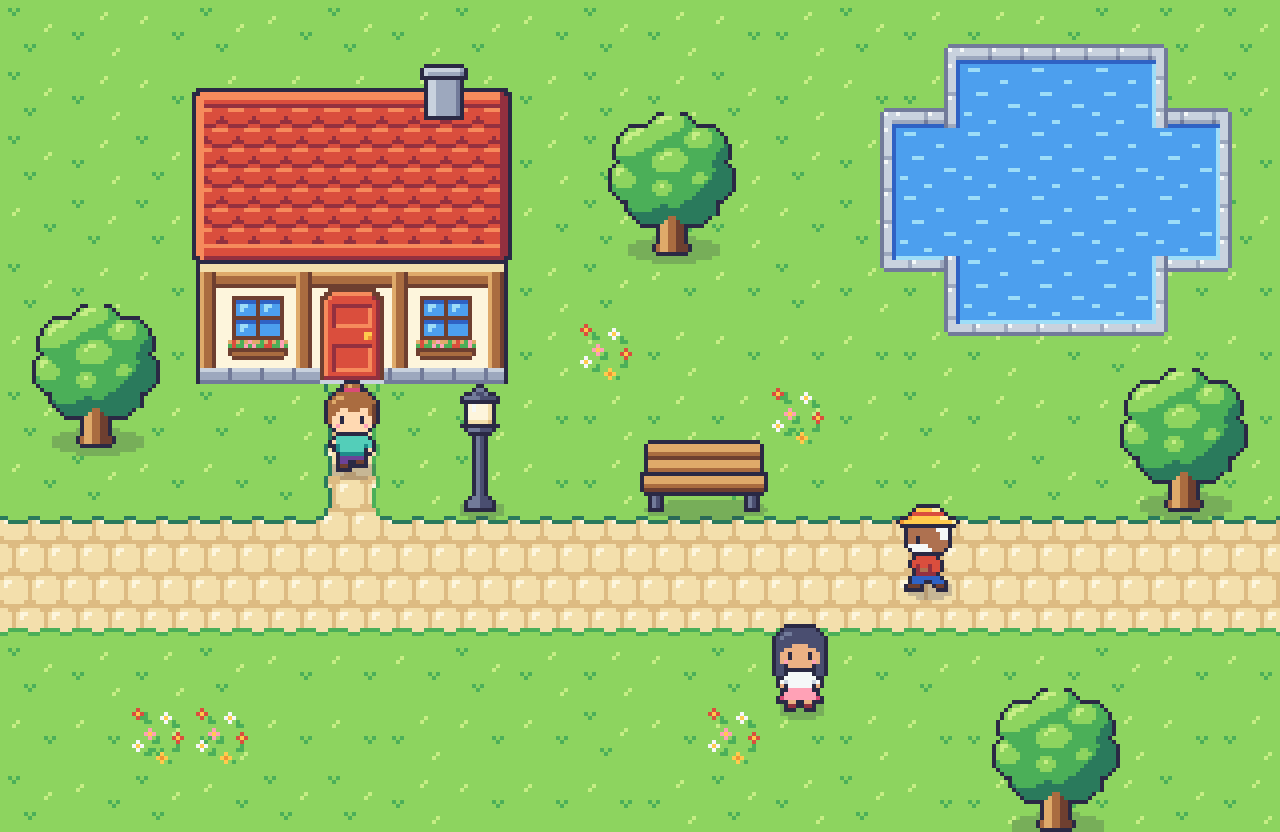
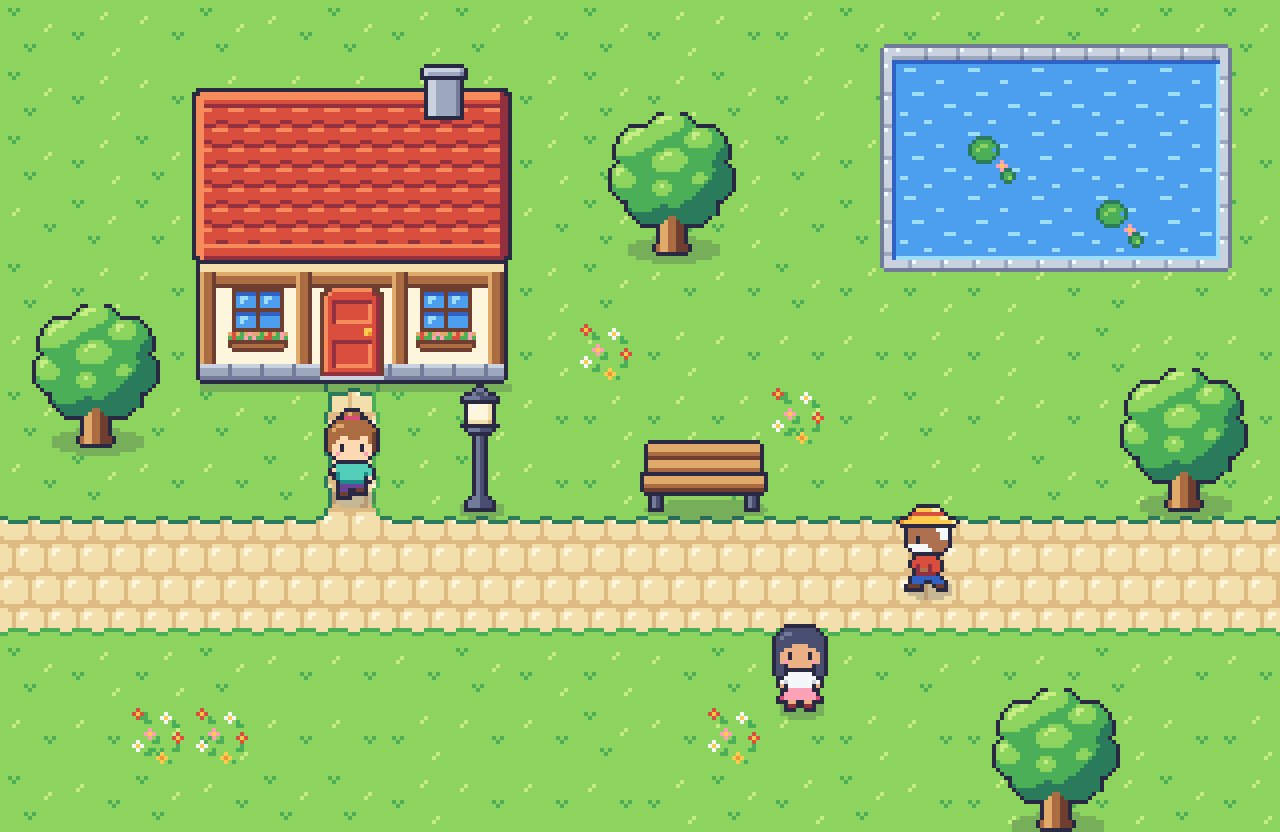
Rewrite STYLE.md for the daylight look; lily pads, house base line, calmer roof

diff --git a/src/art/buildings/index.ts b/src/art/buildings/index.ts
@@ -58,12 +58,12 @@ const done = (c: Canvas, anchor: readonly [number, number]): Sprite => ({
 const roofTiles = sprite(`
   yzzzzyyyyzzzzyyy
   yyyyyyyyyyyyyyyy
-  yyyyyyyxyyyyyyyx
+  yyyyyyyyyyyyyyyy
   xyyyyyxxxyyyyyxx
   yxxxxxyyyxxxxxyy
   zyyyyzzzzyyyyzzz
   yyyyyyyyyyyyyyyy
-  yyyxyyyyyyyxyyyy
+  yyyyyyyyyyyyyyyy
   yyxxxyyyyyxxxyyy
   xxyyyxxxxxyyyxxx
 `);
@@ -191,6 +191,7 @@ const WALL_X = 2;
 const WALL_W = W - 4;
 const DOOR_X = 32;
 const WINDOW_XS = [9, 56];
+const WINDOW_Y = WALL_TOP + 8; // level with the top of the door
 
 function buildHouse(): { day: Sprite; glow: Sprite } {
   const c = canvas(W, H);
@@ -199,18 +200,19 @@ function buildHouse(): { day: Sprite; glow: Sprite } {
   fill(c, plaster, WALL_X, WALL_TOP, WALL_W, H - WALL_TOP);
   fill(c, plasterShade, WALL_X, WALL_TOP, WALL_W, 4);
   fill(c, beam, WALL_X, WALL_TOP + 4, WALL_W, 4);
-  fill(c, plinth, WALL_X, H - 4, WALL_W, 4);
+  fill(c, plinth, WALL_X, H - 5, WALL_W, 4);
   for (const x of [WALL_X, DOOR_X - 6, DOOR_X + 18, WALL_X + WALL_W - 4]) {
-    fill(c, post, x, WALL_TOP + 4, 4, H - 4 - (WALL_TOP + 4));
+    fill(c, post, x, WALL_TOP + 4, 4, H - 5 - (WALL_TOP + 4));
   }
   for (const x of WINDOW_XS) {
-    paste(c, windowDay, x, WALL_TOP + 10);
-    paste(c, flowerBox, x, WALL_TOP + 21);
+    paste(c, windowDay, x, WINDOW_Y);
+    paste(c, flowerBox, x, WINDOW_Y + 11);
   }
-  paste(c, door, DOOR_X, H - door.h);
-  // ink outline of the wall
-  fill(c, ink, WALL_X - 1, WALL_TOP, 1, H - WALL_TOP);
-  fill(c, ink, WALL_X + WALL_W, WALL_TOP, 1, H - WALL_TOP);
+  paste(c, door, DOOR_X, H - 1 - door.h);
+  // ink outline of the wall: both sides and the base line
+  fill(c, ink, WALL_X - 1, WALL_TOP, 1, H - 1 - WALL_TOP);
+  fill(c, ink, WALL_X + WALL_W, WALL_TOP, 1, H - 1 - WALL_TOP);
+  fill(c, ink, WALL_X, H - 1, WALL_W, 1);
 
   // roof: tile courses between a ridge cap and an eave, lit on the left, shaded on the right
   fill(c, roofTiles, 0, ROOF_TOP + 5, W, ROOF_H - 10);
@@ -235,7 +237,7 @@ function buildHouse(): { day: Sprite; glow: Sprite } {
   paste(c, chimney, 57, 0);
 
   const g = canvas(W, H);
-  for (const x of WINDOW_XS) paste(g, windowLit, x, WALL_TOP + 10);
+  for (const x of WINDOW_XS) paste(g, windowLit, x, WINDOW_Y);
 
   return { day: done(c, [0, H]), glow: done(g, [0, H]) };
 }

diff --git a/tools/stylekey.ts b/tools/stylekey.ts
@@ -29,10 +29,10 @@ const col = (slot: Slot, a = 255) => [...lutRgb(lut, slot), a] as const;
 // g grass, c cobble (paving), w water
 const MAP = [
   'gggggggggggggggggggg',
-  'gggggggggggggggwwwgg',
   'ggggggggggggggwwwwwg',
   'ggggggggggggggwwwwwg',
-  'gggggggggggggggwwwgg',
+  'ggggggggggggggwwwwwg',
+  'gggggggggggggggggggg',
   'gggggggggggggggggggg',
   'gggggcgggggggggggggg',
   'gggggcgggggggggggggg',
@@ -53,6 +53,8 @@ const PROPS: { kind: string; tx: number; ty: number }[] = [
   { kind: 'tree', tx: 16, ty: 12 },
   { kind: 'lamp', tx: 7, ty: 7 },
   { kind: 'bench', tx: 10, ty: 7 },
+  { kind: 'lily', tx: 15, ty: 2 },
+  { kind: 'lily', tx: 17, ty: 3 },
   { kind: 'flowers', tx: 9, ty: 5 },
   { kind: 'flowers', tx: 12, ty: 6 },
   { kind: 'flowers', tx: 2, ty: 11 },
@@ -62,7 +64,7 @@ const PROPS: { kind: string; tx: number; ty: number }[] = [
 
 // Actors stand on a feet position in world pixels.
 const ACTORS: { id: string; x: number; y: number; dir: Dir; pose: 'idle' | 'walk'; frame: number }[] = [
-  { id: 'ana', x: 5 * TILE + 8, y: 7 * TILE + 6, dir: 'down', pose: 'walk', frame: 0 },
+  { id: 'ana', x: 5 * TILE + 8, y: 7 * TILE + 13, dir: 'down', pose: 'walk', frame: 0 },
   { id: 'tomas', x: 14 * TILE + 8, y: 9 * TILE + 4, dir: 'left', pose: 'walk', frame: 0 },
   { id: 'mira', x: 12 * TILE + 8, y: 11 * TILE + 2, dir: 'down', pose: 'idle', frame: 0 },
 ];
@@ -142,6 +144,10 @@ function scene(): Surface {
     if (s) shadow(out, p.tx * TILE + s[0], (p.ty + 1) * TILE + s[1], s[2], s[3]);
   }
   for (const a of ACTORS) shadow(out, a.x, a.y - 1, 5, 2);
+  // a building throws a thin strip along its base
+  for (const p of PROPS) {
+    if (p.kind === 'house') out.rect(p.tx * TILE + 2, (p.ty + 1) * TILE, 78, 2, col('steel.0', 56));
+  }
 
   // standing things, sorted by their base line
   const drawables: { y: number; draw: () => void }[] = [];

diff --git a/src/art/nature/index.ts b/src/art/nature/index.ts
@@ -1,7 +1,7 @@
 import { sprite } from '../../core/sprite';
 import type { PropDef } from '../../core/types';
 
-// Reference nature for the daylight look: one round tree and one flower patch.
+// Reference nature for the daylight look: one round tree, a flower patch, lily pads.
 
 // A round, bushy tree. The canopy is a ball of leaf clumps: flat moss.1, sunlit clumps in
 // moss.2 towards the upper left, a moss.0 crescent of shade along the lower right.
@@ -68,7 +68,28 @@ const flowers = sprite(`
   ................
 `, { anchor: [0, 16] });
 
+// Lily pads for the pond, one in bloom. Flat, and placed on water tiles.
+const lily = sprite(`
+  ................
+  ................
+  ....gggg........
+  ...ghhhhg.......
+  ..ghhiihhg......
+  ..ghihhh.g......
+  ..ghhhhhhg......
+  ...ghhhhg.......
+  ....gggg..*.....
+  .........*q*....
+  ..........*gg...
+  ..........ghhg..
+  ..........ghig..
+  ...........gg...
+  ................
+  ................
+`, { anchor: [0, 16] });
+
 export const natureProps: Record<string, PropDef> = {
   tree: { id: 'tree', sprite: tree, footprint: { w: 1, h: 1 } },
   flowers: { id: 'flowers', sprite: flowers, flat: true },
+  lily: { id: 'lily', sprite: lily, flat: true },
 };

diff --git a/docs/STYLE.md b/docs/STYLE.md
@@ -1,78 +1,174 @@
-# Art direction: steel and ochre dusk
+# Art direction: Willow Square in daylight
 
-Simutown is a small town at the end of the day.
-The light is going blue, the stone is cool, and the only warm things in the frame are the lamps and the lit windows.
-It should feel quiet and a little painterly, closer to a print than to a bright RPG tileset.
+Simutown is a small, friendly town at midday.
+The meadow is a light, fresh green, the paving is pale sand, the roofs are warm, and everything has a dark, confident outline.
+People are two heads tall.
+It should feel like a toy town: bright, chunky, and readable from the back of a classroom.
 
 Every artist, human or agent, draws against this page so that the town reads as one hand.
-When in doubt, render the reference sprites (`pnpm sheet all`, `pnpm still 4`) and match them.
+The style key is the reference picture; when this page and your eye disagree, match the style key.
+
+| File | What it shows |
+|------|---------------|
+| `docs/style/stylekey.png` | A sunny corner of Willow Square, at x4. Every reference sprite in context. |
+| `docs/style/characters.png` | Every frame of the reference townsfolk. Rows: down, left, right, up. Columns: 2 idle frames on paving, 4 walk frames on grass. |
+| `docs/style/palette.png` | The palette, one row per ramp in the order of the table below, dark to light. |
+
+Regenerate them with `pnpm tsx tools/stylekey.ts`.
+Review single sprites with `pnpm sheet <group>`.
+
+Willow Square is its own place.
+We take the qualities of the classic handheld RPG town - brightness, chunkiness, big heads, clarity - and none of its content.
+Never copy a character, creature, tile or sprite from an existing game, and never name one in this repository.
+The people here are ordinary townsfolk.
 
 ## The palette
 
-Art uses the 33 slots in `src/core/palette.ts` and nothing else.
-Ramps run dark to light.
+Art uses the 38 slots of the `daylight` theme in `src/core/palette.ts` and nothing else.
+Ramps run dark to light, and each one is hue-shifted: the dark end leans cool, the light end leans warm.
+The character in the second column is the slot's letter in a sprite grid (`LEGEND` in `src/core/sprite.ts`).
 
-| Ramp | Use |
-|------|-----|
-| `steel.0-5` | The backbone. Outlines (`steel.0`), stone, slate roofs, water, shadow, metal, night. |
-| `cream.0-2` | Plaster walls, paper, cloth, the lightest non-glowing surfaces. |
-| `ochre.0-3` | Light. Lamp glass, lit windows, and very small accents. |
-| `brick.0-2` | Muted warm: brick, roof tiles, clay pots, rust. |
-| `moss.0-3` | Grass, leaves, hedges. Dusty, never bright green. |
-| `wood.0-2` | Trunks, doors, beams, furniture, dark hair. |
-| `skin.a/b/c.0-1` | Three skin tones, each a shade and a base. |
-| `plum.0-1`, `teal.0-1` | Clothing and the odd painted shutter or awning. |
+| Ramp | Grid | Use |
+|------|------|-----|
+| `steel.0` | `0` | Ink. Outlines and eyes, nothing else. |
+| `steel.1-5` | `1 2 3 4 5` | Iron, slate, stone, and white. `steel.5` is the only white: glints, foam, daisies, cloth. |
+| `cream.0-2` | `a b c` | The light ground of the town. `cream.1` is paving, `cream.0` its joints, `cream.2` plaster walls and paper. |
+| `ochre.0-3` | `o p q r` | Orange to sunshine yellow: orange roofs, straw, blond and ginger hair, flower hearts. Also lamplight. |
+| `brick.0-2` | `x y z` | Warm red: tiled roofs, doors, poppies, a red shirt. |
+| `moss.0-3` | `g h i j` | Green. `moss.2` is the grass, `moss.1` is leaves and tufts, `moss.0` leaf shade, `moss.3` sunlit tips. |
+| `wood.0-2` | `u v w` | Trunks, beams, doors and window frames, benches, brown hair. |
+| `skin.a/b/c.0-1` | `k l`, `m n`, `s t` | Three skin tones, each a shade and a base. |
+| `plum.0-1`, `teal.0-1` | `d e`, `6 7` | Clothing, and the odd painted shutter or awning. |
+| `sky.0-2` | `8 9 f` | Water, window glass by day, blue roofs, denim. |
+| `rose.0-1` | `+ *` | Flowers, cheeks, ribbons, a pink skirt. |
 
-### The one warm colour
+### Colour rules
 
-Ochre is rationed.
-`ochre.2` and `ochre.3` appear only in emissive layers (things that glow) and in accents of a few pixels: a scarf, a flower, a sign.
-If a daytime sprite has a large ochre area, it is wrong.
-This rule is what makes the lamps and windows carry the picture at dusk.
+- **Two colours own the ground.** `moss.2` (grass) and `cream.1` (paving) cover most of every frame, and they are reserved for it.
+  A prop never uses either as its main colour: trees are `moss.1` with `moss.2` only as a highlight, walls are `cream.2`.
+  That is why props and people pop off the ground without effort.
+- **Ink is for lines.** `steel.0` draws outlines and eyes.
+  It never fills an area larger than a few pixels.
+- **Saturated colour goes on things that matter.** Roofs, doors, clothes and flowers get the strong reds, yellows, blues and pinks.
+  Large surfaces (ground, walls, stone) stay light and quiet.
+- **Three tones per material.** Shade, base, light, from one ramp. A whole sprite rarely needs more than four ramps plus ink.
+- **White is rare.** `steel.5` and `ochre.3` are highlights of a few pixels, clothing, or the core of a lit window.
+- **No hex colours in art, ever.** If a colour is missing, say so in your report; do not invent one.
 
 ## View and scale
 
-- Top-down three-quarter view, like a classic JRPG town: we see the front faces of things and the tops of roofs. No perspective, no vanishing points.
-- Tiles are 16x16. The frame is 480x270, so 30 tiles across.
-- Characters are 16x24 and about two and a half heads tall: a 10-pixel-wide head, a small body. They must read at a glance from across a classroom.
-- A door is about 12 wide and 18 tall, so a character fits it. A ground-floor window is about 8x10. A one-storey house front is about 3 tiles tall including the roof.
-- Trees are tall: 32x48 for a full tree. A lamp post is 16x32.
+- Top-down three-quarter view: we see the front faces of things and the tops of roofs. No perspective, no vanishing points.
+- Tiles are 16x16. The frame is 480x270, so 30 tiles across. Everything is shown at x4 on a projector.
+
+| Thing | Size in pixels | Notes |
+|-------|----------------|-------|
+| Person | 16x24 box, anchor [8, 24] | The figure itself is about 22 tall. Head 12 tall and 12 to 14 wide; body 10 tall, 12 wide at the arms. |
+| Door | 16 wide, 24 tall | One tile wide, a tile and a half tall, frame included. A person must fit it. |
+| Window | 15 wide, 13 tall | Four panes of 5x4 and a sill. Its top sits level with the top of the door. |
+| Wall | 32 tall per storey | Two tiles, including a 4-pixel stone plinth. |
+| Roof | about 1.4 times the wall height | The roof is the biggest, warmest shape in town. Give it room. |
+| House | 80x80 | Five tiles wide, footprint 5x3, door place one tile below the door. |
+| Tree | 32x36 | A round canopy two tiles wide on a short, 6-pixel trunk. About one and a half people tall. |
+| Lamp post | 16x32 | A 2-pixel post with a fat lantern. |
+| Bench | 32x18 | Two tiles wide; the seat is 9 pixels off the ground. |
+| Flower | 3x3 | A plus of petals around a heart. Five to a patch. |
+| Paving stone | 8x8 | Rounded corners, running bond. |
+
+Chunky beats detailed.
+If a shape is thinner than 2 pixels (plus its outline), make it fatter or leave it out.
 
 ## Line and shading
 
-- **Outlines.** Characters and props have a 1-pixel `steel.0` outline around the silhouette. Inside the silhouette, separate shapes with the darker shade of the local ramp, not with `steel.0`. Terrain tiles have no outline.
-- **Light direction.** The sun is low in the upper left. Top and left faces take the light shade, right and bottom faces the dark shade. Keep this consistent across every sprite.
-- **Three tones per material.** Shade, base, highlight. No gradients, no banding, no pillow shading.
-- **Dither sparingly.** A 2x2 checker is fine to soften a large roof, water or a ground transition. Never dither a character.
-- **No cast shadows in sprites.** The renderer draws shadows for the time of day. Do not paint a shadow on the ground under a prop or a person.
-- **No pure noise.** A tile should have a few deliberate marks (three or four grass tufts), not a speckle on every other pixel. Large areas must stay calm so characters stand out.
-- **Tiles must tile.** Check every terrain tile in the 3x3 view of `pnpm sheet terrain`: no visible seams, no obvious repeat that draws the eye.
+- **Outlines.** People and standing props have a closed 1-pixel ink outline around the silhouette, base line included.
+  Round the corners by dropping the corner pixel; nothing in this town has a sharp square corner except a wall.
+- **Ink inside a sprite** separates major parts that overlap: head over body, hat brim over face, roof over wall, seat over backrest.
+- **Detail inside one part** uses that part's own dark shade: `wood.0` around a window, `brick.0` under a course of roof tiles, the shirt's shade under an arm.
+- **Terrain and flat props have no ink at all.** Their darkest line is the dark end of their own ramp.
+- **Light comes from the upper left.** Top and left faces take the light tone, right and bottom faces the shade.
+  Highlights are small (a lip, a glint, the top-left of a leaf clump); shade may be a broad crescent on the lower right.
+- **Flat colour.** No gradients, no dithering, no anti-aliasing, no pillow shading.
+- **No cast shadows in sprites.** The renderer draws them: a flat ink ellipse at about 22% under every person and standing prop, and a 2-pixel strip along the base of a building. The style key shows the midday version.
+- **Calm ground.** A grass tile carries two or three small marks (a `moss.1` tuft, a `moss.3` blade), never a speckle. Large areas must stay quiet so that people stand out.
+- **Tiles must tile.** Check every terrain tile in the 3x3 and mixed views of `pnpm sheet terrain`: no seams, no repeat that draws the eye.
 
-## Emissive layers
+## Ground and water
 
-A prop may have an `emissive` sprite: the pixels that glow when the lights are on.
-Draw lit windows with `ochre.2` and a hotter `ochre.3` core, with the window bars left dark.
-The day sprite shows the same window unlit, in `steel.2` and `steel.3` with a `steel.4` glint.
-The sheet shows both versions side by side: check that the lit one feels warm and inhabited.
+- `grass` has three variants; the renderer mixes them by tile position.
+- `cobble` is the town's pale paving. Lesser paths can use it one tile wide.
+- `water` is flat `sky.1` with a few `sky.2` ripples that drift between two frames. It is solid.
+- Edges are fringes: thin strips that a higher-priority terrain draws on its neighbours. Priorities are `cobble` 1, `grass` 2, `water` 3.
+- Grass creeps over paving with a lumpy turf line, `moss.1` on the lit north and west sides, `moss.0` on the shaded south and east sides.
+- Water sits in a rim of pale stone with a shadow under its north bank and a line of foam along the south and east.
+- Keep fringe strips to 5 pixels or less. Two strips cross wherever a shoreline turns an inner corner, and thin strips still read cleanly there.
 
 ## People
 
-- Simple faces: two eye pixels in `steel.0`, no mouth unless an expression needs it.
-- Distinct silhouettes first, colours second: hair shape, a hat, an apron, a long coat. Each townsperson should be recognisable as a black shape.
-- Clothes sit in `steel`, `teal`, `plum`, `brick`, `cream` and `moss`. One small ochre accent per person at most.
-- Walk cycles are four frames. The body bobs by one pixel and the feet alternate. Left is right, mirrored.
+People are built by the kit in `src/art/characters/kit.ts`: a shared body in role letters, plus three head grids per person (facing down, up and right; left is right mirrored).
 
-## Readability
+- **Two heads tall.** The head, hair included, is 12 rows; the body is 10. Do not grow the body to add detail.
+- **Faces.** Two ink eyes, each 1 pixel wide and 2 tall, on rows 9 and 10 of the box, at columns 5 and 10 when facing the viewer.
+  No nose, no mouth. A light-skinned face may have one `rose.1` pixel per cheek.
+- **Silhouette first.** Each person must be recognisable as a black shape: a bun, a straw hat, long hair, a beard, a skirt.
+  Hair and hats may use the two rows above the head and may hang over the shoulders.
+- **Colour second.** One strong colour for the top, a different one for the legs, and at most one small accent (a ribbon, a hat band). Avoid `moss.2` and `cream.1` in clothes: they are the ground.
+- **Bodies are plain.** No buttons, belts or pockets. A sleeve is separated from the chest by one pixel of the top's shade.
+- **Idle** is two frames: the head settles by 1 pixel on the second.
+- **Walk** is four frames: step, stand, other step, stand. On a step the head and body drop 1 pixel, one foot is planted and the other lifted.
+- All three skin tones are in the reference cast; keep it that way as the cast grows.
 
-These scenes are shown on projectors and in slides, scaled x4.
-Favour big clear shapes over small detail.
-If two things matter in a lesson, the viewer must be able to tell them apart at arm's length.
+## Buildings
+
+- A house is a roof, a wall and a plinth, assembled from small pieces (see `src/art/buildings/index.ts`).
+- **Roofs** are `brick` (red) or `ochre` (orange), sometimes `sky` (blue) or `steel` (slate). Courses are 5 pixels tall with a scalloped shade line under each and a short lit lip on every tile. No full grid of joints: a roof must not read as a brick wall.
+  The left edge of the roof is lit, the right edge shaded, and an ink line separates the eave from the wall.
+- **Walls** are `cream.2` plaster with a `cream.1` shadow under the eave, a `wood` timber frame, and a `steel` plinth.
+- **Doors** are painted a strong colour, with inset panels (shade on the top and left of a panel, light on the bottom and right) and a brass knob in `ochre.2`.
+- **Windows** by day are `sky.1` glass with a `sky.0` shadow along the top of each pane and a small `sky.2` glint, in a `wood.0` frame.
+  A window box of flowers is welcome.
+
+## Nature
+
+- A tree canopy is a lumpy ball: `moss.1` all over, a handful of sunlit clumps of `moss.2` towards the upper left with a few `moss.3` pixels at their top-left, and a broad `moss.0` crescent along the lower right.
+- Trunks are short and fat: `wood.2`, `wood.1`, `wood.0` in three vertical bands from left to right.
+- Flowers and lily pads are flat props: no ink, no footprint, drawn under people.
+
+## Daylight, dusk and night
+
+Bright daylight is the default, and all art is drawn for it.
+The renderer will also offer dusk and night moods by darkening and tinting the frame, and then switching the lights on.
+
+- Any prop that can glow keeps an `emissive` sprite of the same size and anchor, plus `lights`.
+- The day sprite shows the thing unlit: window glass in `sky`, lamp glass in `cream`.
+- The emissive sprite repaints only the glass: `ochre.2` with an `ochre.3` core. Window bars and frames stay out of it, so they read dark against the glow.
+- `pnpm sheet` shows both versions side by side. Check that the lit one feels warm and inhabited.
+
+## Do and do not
+
+Do:
+
+- Start from the silhouette, fill it with one flat colour, then add one shade and one light.
+- Reuse the reference pieces: the window, the door, the roof course, the kit body.
+- Look at your sprite in the style key's company, at x4, from across the room.
+
+Do not:
+
+- Use ink as a fill, or leave an outline open.
+- Use `moss.2` or `cream.1` as the main colour of a prop or of clothing.
+- Dither, anti-alias, or shade with more than three tones of one ramp.
+- Speckle the ground, or put a detail on every tile.
+- Paint a cast shadow into a sprite.
+- Draw thin things: a 1-pixel fence rail, a 1-pixel limb.
+- Give a person a small head, a mouth, or realistic proportions.
+- Light anything from the right.
 
 ## Checklist before you call a sprite done
 
-1. Rendered and looked at, at the sheet's scale.
+1. Rendered and looked at, at x4, next to the style key.
 2. Correct size and anchor (the contract test checks this).
-3. Light from the upper left, three tones per material.
-4. Outline rule followed.
-5. Ochre rationed.
-6. It still reads when you squint.
+3. Bright: each material's base is the middle or light tone of its ramp; the dark tone is only shade. Iron is the one exception.
+4. Chunky: no part thinner than 2 pixels, corners rounded.
+5. Closed ink outline on people and standing props; no ink on terrain and flat props.
+6. Light from the upper left, at most three tones per material.
+7. It does not use the ground colours as its own.
+8. Anything that glows has an emissive layer.
+9. It still reads when you squint.
